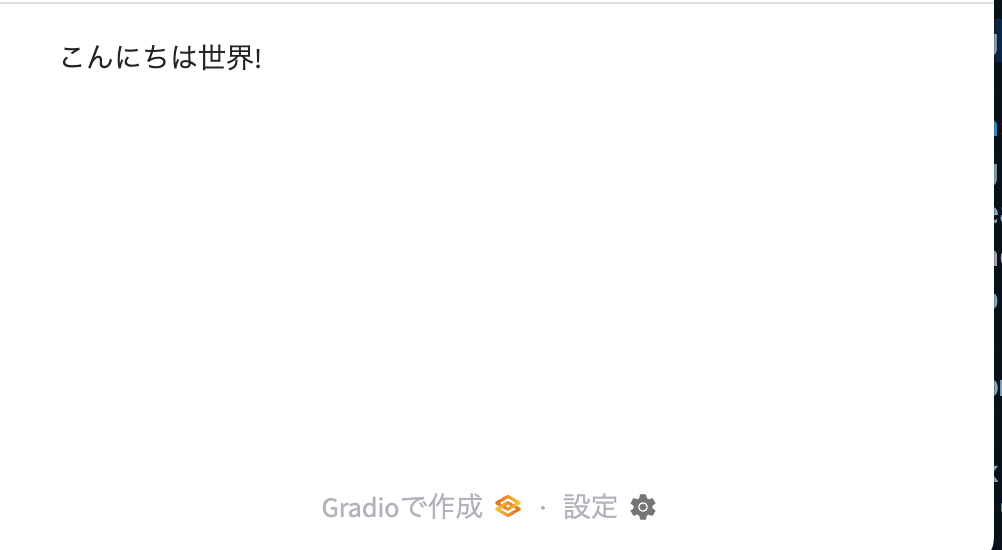
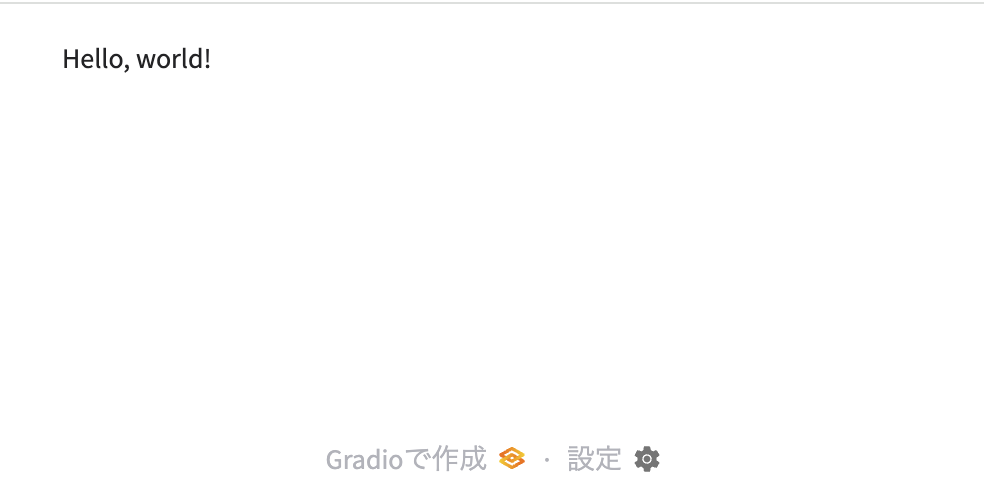
update

Changed region(s): [[0.9756, 0.0, 1.0, 1.0], [0.3049, 0.877, 0.6707, 0.9677], [0.061, 0.0605, 0.2744, 0.1512]]

diff --git a/docs/src/st_chatai.py b/docs/src/st_chatai.py
@@ -1,0 +1,46 @@
+# st_chatai.py
+import streamlit as st
+from openai import OpenAI
+from dotenv import load_dotenv
+import os
+
+load_dotenv()
+
+client = OpenAI(
+  base_url=os.getenv("BASE_URL"),
+  api_key=os.getenv("OPENAI_API_KEY")
+)
+
+system_prompt = {"role": "system",
+                 "content": "あなたは親切なAIチャットボットです。\
+                 日本語で回答してください。"}
+
+if "message_history" not in st.session_state:
+  st.session_state.message_history = [system_prompt]
+
+def chat_completion_stream(messages):
+  response = client.chat.completions.create(
+    model=os.getenv("MODEL"),
+    messages=messages,
+    stream=True,
+  )
+  return response
+
+st.title("チャットAI(Streamlit)")
+
+if user_input := st.chat_input("聞きたいことを入力してね！"):
+  # 入力文字列をヒストリに追加
+  st.session_state.message_history.append(
+    {"role": "user", "content": user_input})
+  for message in st.session_state.message_history:
+    if message["role"] != "system":
+      with st.chat_message(message["role"]):
+        st.markdown(message["content"])
+
+  with st.chat_message('ai'):
+    # AIの応答を取得
+    answer = st.write_stream(chat_completion_stream(
+      st.session_state.message_history))
+  # 回答文字列をヒストリに追加
+  st.session_state.message_history.append(
+    {"role": "assistant", "content": answer})

diff --git a/docs/gr_graph.py b/docs/gr_graph.py
@@ -1,0 +1,41 @@
+# gr_graph.py
+import gradio as gr
+import matplotlib
+import numpy as np
+import matplotlib.pyplot as plt
+
+matplotlib.use('Agg')
+
+def quadratic_plot(a, b, c):
+  x = np.linspace(-10, 10, 400)
+  y = a * x**2 + b * x + c
+
+  # グラフ描画
+  fig, ax = plt.subplots()
+  ax.plot(x, y, label=f'y = {a} x^2 + {b}x + {c}')
+  ax.axhline(0, color='black', linewidth=0.5)
+  ax.axvline(0, color='black', linewidth=0.5)
+  ax.set_xlabel("x")
+  ax.set_ylabel("y")
+  ax.grid(True)
+  ax.legend()
+  return fig
+
+# 初期状態のグラフを生成
+initial_plot = quadratic_plot(1, 0, 0)
+
+# Gradioインターフェースの定義
+demo = gr.Interface(
+  fn=quadratic_plot,
+  inputs=[
+    gr.Slider(minimum=-10, maximum=10, step=0.1, value=1, label="係数 a"),
+    gr.Slider(minimum=-10, maximum=10, step=0.1, value=0, label="係数 b"),
+    gr.Slider(minimum=-10, maximum=10, step=0.1, value=0, label="係数 c")
+  ],
+  outputs=gr.Plot(value=initial_plot),
+  live=True,
+  title="二次関数グラフ表示アプリ",
+  description="下のスライダーで係数a,b,cを調整するとy=ax^2+b+cのグラフが自動更新されます。"
+)
+
+demo.launch()

diff --git a/docs/gr_chatai.py b/docs/gr_chatai.py
@@ -1,0 +1,42 @@
+# gr_chatai.py
+import time
+import gradio as gr
+from openai import OpenAI
+from dotenv import load_dotenv
+import os
+from typing import Generator, Any, List, Dict
+
+# OpenAI APIキーを環境変数に設定
+load_dotenv()
+
+client = OpenAI()
+
+system_prompt = {"role": "system",
+                 "content": "あなたは親切なAIチャットボットです。日本語で回答してください。"}
+
+def chat_completion_stream(messages: List[Dict[str, str]]) -> Generator:
+  response = client.chat.completions.create(
+    model=os.getenv("MODEL"),
+    messages=messages,
+    stream=True,
+  )
+  return response
+
+def chat_response(message: str, history: List[Dict[str, str]]) -> Generator:
+  user_message = {"role": "user", "content": message}
+  response = chat_completion_stream(
+    [
+      system_prompt,
+      *history,
+      user_message
+    ])
+  ai_message = ""
+  for item in response:
+    chunk = item.choices[0].delta.content
+    if chunk is not None:
+      ai_message += chunk
+    yield ai_message
+
+demo = gr.ChatInterface(fn=chat_response, type="messages",
+                        title="チャットAI(Gradio)")
+demo.launch()

diff --git a/docs/src/gr_chatai.py b/docs/src/gr_chatai.py
@@ -1,0 +1,42 @@
+# gr_chatai.py
+import time
+import gradio as gr
+from openai import OpenAI
+from dotenv import load_dotenv
+import os
+from typing import Generator, Any, List, Dict
+
+# OpenAI APIキーを環境変数に設定
+load_dotenv()
+
+client = OpenAI()
+
+system_prompt = {"role": "system",
+                 "content": "あなたは親切なAIチャットボットです。日本語で回答してください。"}
+
+def chat_completion_stream(messages: List[Dict[str, str]]) -> Generator:
+  response = client.chat.completions.create(
+    model=os.getenv("MODEL"),
+    messages=messages,
+    stream=True,
+  )
+  return response
+
+def chat_response(message: str, history: List[Dict[str, str]]) -> Generator:
+  user_message = {"role": "user", "content": message}
+  response = chat_completion_stream(
+    [
+      system_prompt,
+      *history,
+      user_message
+    ])
+  ai_message = ""
+  for item in response:
+    chunk = item.choices[0].delta.content
+    if chunk is not None:
+      ai_message += chunk
+    yield ai_message
+
+demo = gr.ChatInterface(fn=chat_response, type="messages",
+                        title="チャットAI(Gradio)")
+demo.launch()

diff --git a/docs/st_graph.py b/docs/st_graph.py
@@ -1,0 +1,25 @@
+# st_graph.py
+
+import streamlit as st
+import numpy as np
+import matplotlib.pyplot as plt
+
+st.title("2次関数のグラフ描画")
+
+col1, col2 = st.columns(2)
+with col1:
+  a = st.number_input("係数 a", value=1.0)
+  b = st.number_input("係数 b", value=0.0)
+  c = st.number_input("係数 c", value=0.0)
+with col2:
+  x = np.linspace(-10, 10, 400)
+  y = a * x**2 + b * x + c
+
+  fig, ax = plt.subplots()
+  ax.plot(x, y, label=f'y = a x^2 + bx + c\na={a}, b={b}, c={c}')
+  ax.axhline(0, color='black', linewidth=0.5)
+  ax.axvline(0, color='black', linewidth=0.5)
+  ax.grid(color='gray', linestyle='--', linewidth=0.5)
+  ax.legend()
+
+  st.pyplot(fig)

diff --git a/gr_app.py b/gr_app.py
@@ -1,3 +1,4 @@
+# gr_chatai.py
 import time
 import gradio as gr
 from openai import OpenAI
@@ -36,5 +37,6 @@ def chat_response(message: str, history: List[Dict[str, str]]) -> Generator:
       ai_message += chunk
     yield ai_message
 
-gr.ChatInterface(fn=chat_response, type="messages",
-                 title="チャットAI(streaming)").launch()
+demo = gr.ChatInterface(fn=chat_response, type="messages",
+                        title="チャットAI(Gradio)")
+demo.launch()

diff --git a/docs/st_bmi1.py b/docs/st_bmi1.py
@@ -1,0 +1,13 @@
+# st_bmi1.py
+import streamlit as st
+
+def bmi(height, weight):
+  return weight / (height / 100) ** 2
+
+if height := st.number_input("身長(cm)"):  # ①
+  if weight := st.number_input("体重(kg)"):  # ②
+    if height > 0 and weight > 0:
+      bmi_value = bmi(height, weight)
+      st.markdown(f"BMI = {bmi_value:.2f}")
+    else:
+      st.markdown("身長と体重を入力してください")

diff --git a/docs/gr_bmi.py b/docs/gr_bmi.py
@@ -1,0 +1,16 @@
+# gr_bmi.py
+import gradio as gr
+
+def bmi(height, weight):
+  return weight / (height / 100) ** 2
+
+demo = gr.Interface(
+  fn=bmi,
+  inputs=[
+    gr.Number(label="身長 (cm)"),
+    gr.Number(label="体重 (kg)")
+  ],
+  outputs=gr.Number(label="BMI")
+)
+
+demo.launch()

diff --git a/docs/inputoutput_webapp.py b/docs/inputoutput_webapp.py
@@ -1,0 +1,9 @@
+# inputoutput_webapp.py
+import streamlit as st
+
+a = st.number_input("A")
+b = st.number_input("B")
+if b != 0:
+  st.write("A/B = ", a / b)
+else:
+  st.write("error")

diff --git a/docs/st_hello2.py b/docs/st_hello2.py
@@ -1,0 +1,10 @@
+# st_hello2.py
+import streamlit as st
+
+st.write("Hello, world!")
+st.markdown("""
+|食品|価格|
+|-|-|
+|トマト|100円|
+|たまねぎ|200円|
+""")

diff --git a/docs/inputoutput_console.py b/docs/inputoutput_console.py
@@ -1,0 +1,7 @@
+# inputoutput_console.py
+a = int(input("A="))
+b = int(input("B="))
+if b != 0:
+  print("A/B = ", a / b)
+else:
+  print("error")

diff --git a/docs/gr_hello.py b/docs/gr_hello.py
@@ -1,0 +1,7 @@
+# gr_hello.py
+import gradio as gr
+
+with gr.Blocks() as demo:
+  gr.Markdown("Hello, world!")
+
+demo.launch()
